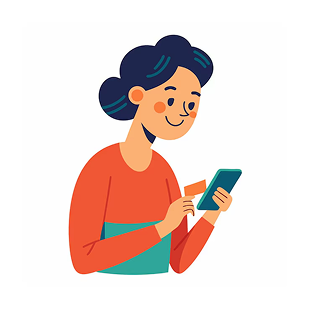
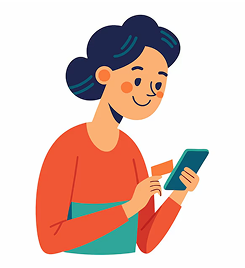
Preparando todo para deploy

diff --git a/frontend/src/screens/RecoverScreen.tsx b/frontend/src/screens/RecoverScreen.tsx
@@ -1,5 +1,6 @@
-import React from 'react';
-import { StyleSheet, Text, TouchableOpacity, View } from 'react-native';
+import React, { useState } from 'react';
+import { StyleSheet, Text, TextInput, TouchableOpacity, View, } from 'react-native';
+import { KeyRound, MailCheck } from 'lucide-react-native';
 import { Mail } from 'lucide-react-native';
 import Button from '../components/Button';
 import {
@@ -10,19 +11,94 @@ import {
 } from '../components/FigmaScreen';
 import type { AppScreenProps } from '../navigation/types';
 
+const EMAIL_REGEX = /^[^\s@]+@[^\s@]+\.[^\s@]+$/;
+
 export default function RecoverScreen({ navigation }: AppScreenProps<'Recover'>) {
+    const [email, setEmail] = useState('');
+    const [error, setError] = useState<string | null>(null);
+    const [sent, setSent] = useState(false);
+
+    const handleSend = () => {
+        const trimmedEmail = email.trim();
+
+        if (!trimmedEmail) {
+            setError('Ingresá tu email.');
+            return;
+        }
+
+        if (!EMAIL_REGEX.test(trimmedEmail)) {
+            setError('Ingresá un email válido.');
+            return;
+        }
+
+        setError(null);
+        setSent(true);
+
+        // TODO: Llamar a tu API para enviar el código de validación a `trimmedEmail`
+        // y, si corresponde, navegar a la pantalla de verificación:
+        // navigation.navigate('VerifyCode', { email: trimmedEmail });
+    };
+
     return (
         <FigmaScreen onBack={() => navigation.goBack()}>
             <PageTitle
                 title="Recuperar contraseña"
-                subtitle="Te enviamos un mail con instrucciones para recuperar tu contraseña."
+                subtitle={
+                    sent
+                        ? 'Te enviamos un mail con el código de validación para recuperar tu contraseña.'
+                        : 'Ingresá tu email y te enviamos un código de validación.'
+                }
             />
-            <View style={styles.hero}>
+
+            {/* <View style={styles.hero}>
                 <Mail color={FIGMA_COLORS.primary} size={32} strokeWidth={1.8} />
+            </View> */}
+
+            <View style={styles.hero}>
+                {sent ? (
+                    <MailCheck color={FIGMA_COLORS.primary} size={50} strokeWidth={1.8} />
+                ) : (
+                    <KeyRound color={FIGMA_COLORS.primary} size={50} strokeWidth={1.8} />
+                )}
             </View>
-            <Text style={styles.notice}>
-                Revisá tu bandeja de entrada y también la carpeta de spam o correo no deseado.
-            </Text>
+
+            <View style={styles.form}>
+                <Text style={styles.label}>Email</Text>
+                <TextInput
+                    accessibilityLabel="Email"
+                    autoCapitalize="none"
+                    autoComplete="email"
+                    autoCorrect={false}
+                    keyboardType="email-address"
+                    onChangeText={(text) => {
+                        setEmail(text);
+                        if (error) setError(null);
+                        if (sent) setSent(false);
+                    }}
+                    onSubmitEditing={handleSend}
+                    placeholder="nombre@ejemplo.com"
+                    placeholderTextColor="#9CA3AF"
+                    returnKeyType="send"
+                    style={[styles.input, error ? styles.inputError : null]}
+                    textContentType="emailAddress"
+                    value={email}
+                />
+                {error ? <Text style={styles.errorText}>{error}</Text> : null}
+
+                <View style={styles.sendButtonWrap}>
+                    <Button
+                        label={sent ? 'Reenviar código' : 'Enviar código'}
+                        onPress={handleSend}
+                    />
+                </View>
+            </View>
+
+            {sent ? (
+                <Text style={styles.notice}>
+                    Revisá tu bandeja de entrada y también la carpeta de spam o correo no deseado.
+                </Text>
+            ) : null}
+
             <TouchableOpacity
                 accessibilityLabel="Recordé mi contraseña"
                 accessibilityRole="button"
@@ -31,8 +107,12 @@ export default function RecoverScreen({ navigation }: AppScreenProps<'Recover'>)
             >
                 <Text style={styles.link}>¿Recordaste tu contraseña?</Text>
             </TouchableOpacity>
+
             <ScreenFooter>
-                <Button label="Volver a iniciar sesión" onPress={() => navigation.navigate('Login')} />
+                <Button
+                    label="Volver a iniciar sesión"
+                    onPress={() => navigation.navigate('Login')}
+                />
             </ScreenFooter>
         </FigmaScreen>
     );
@@ -48,6 +128,36 @@ const styles = StyleSheet.create({
         justifyContent: 'center',
         marginBottom: 18,
         width: 72,
+    },
+    form: {
+        marginBottom: 16,
+    },
+    label: {
+        color: FIGMA_COLORS.text,
+        fontSize: 13,
+        fontWeight: '600',
+        marginBottom: 6,
+    },
+    input: {
+        backgroundColor: '#FFFFFF',
+        borderColor: '#D1D5DB',
+        borderRadius: 10,
+        borderWidth: 1,
+        color: FIGMA_COLORS.text,
+        fontSize: 15,
+        paddingHorizontal: 14,
+        paddingVertical: 12,
+    },
+    inputError: {
+        borderColor: '#DC2626',
+    },
+    errorText: {
+        color: '#DC2626',
+        fontSize: 12,
+        marginTop: 6,
+    },
+    sendButtonWrap: {
+        marginTop: 14,
     },
     notice: {
         color: FIGMA_COLORS.text,

diff --git a/frontend/src/screens/OnboardingScreen.tsx b/frontend/src/screens/OnboardingScreen.tsx
@@ -35,7 +35,7 @@ export default function OnboardingScreen({
                 {step === 1 ? (
                     <>
                         <Text style={styles.brand}>BA Protege+</Text>
-                        <LotbaBrandMark size={250} />
+                        <LotbaBrandMark size={280} />
                     </>
                 ) : null}
                 <Text style={[styles.title, step > 1 && styles.titleCompact]}>
@@ -81,9 +81,8 @@ const styles = StyleSheet.create({
     },
     brand: {
         color: FIGMA_COLORS.primary,
-        fontSize: 20,
+        fontSize: 30,
         fontWeight: '700',
-        marginBottom: 8,
     },
     title: {
         color: FIGMA_COLORS.text,

diff --git a/frontend/src/components/OnboardingArtwork.tsx b/frontend/src/components/OnboardingArtwork.tsx
@@ -31,7 +31,7 @@ export default function OnboardingArtwork({ kind }: { kind: ArtworkKind }) {
 
 const styles = StyleSheet.create({
   artwork: {
-    height: 190,
+    height: 230,
     width: 230,
   },
 });
